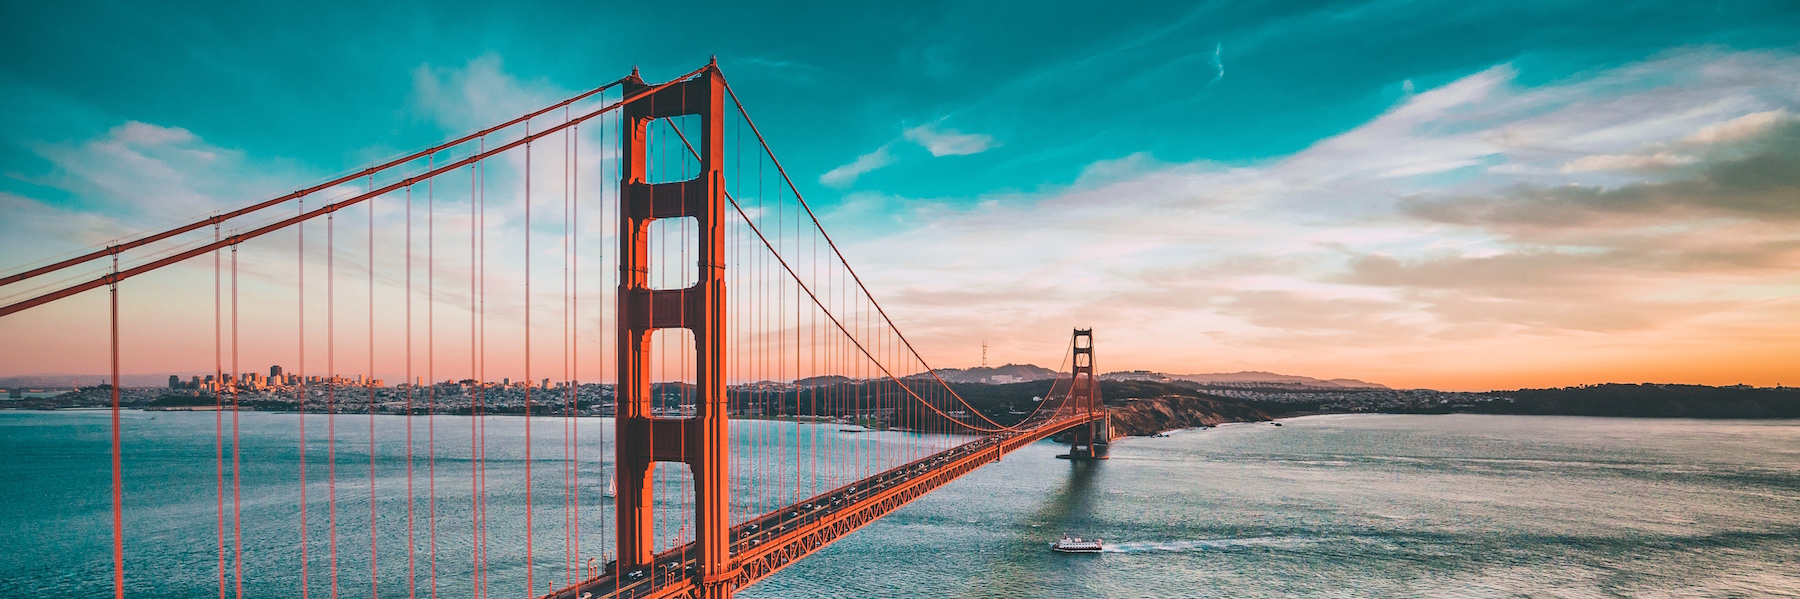
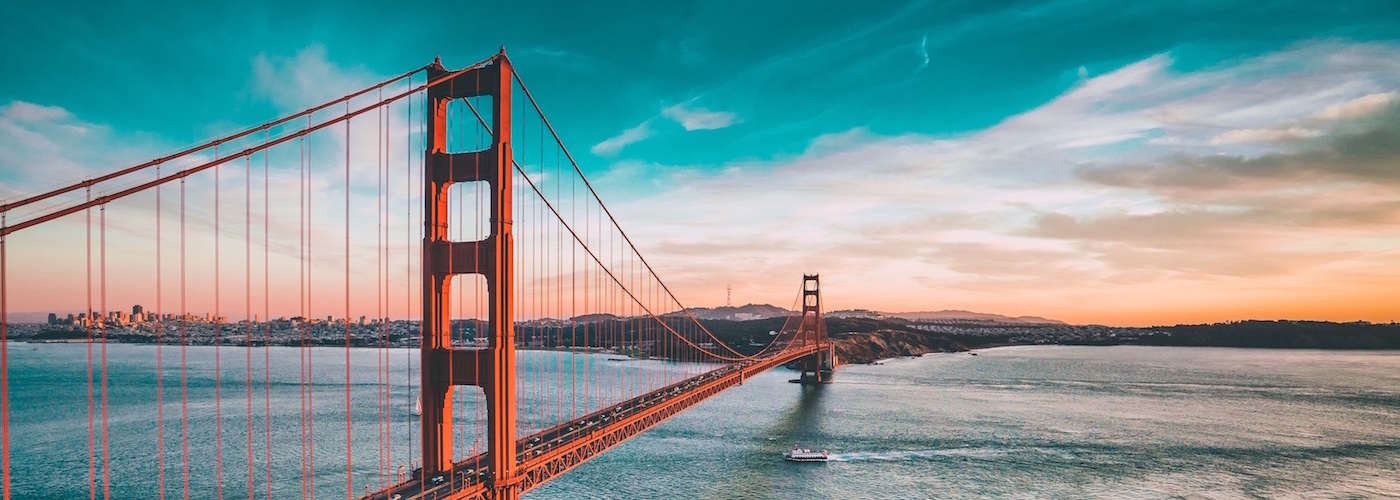
Feature/photo carousel (#5)
* Paragraph and image styling to about page

* Namespace video JS file WIP

* Update config

* Add rough copy to index

* Changes index hero image to carousel of profile pictures

* Resize images

* Flips image order

* Resizes bridge picture and adds it to index carousel

* Adds third dot to bottom of carousel

* Adjusts videoJS namespacing to get it working again

* Styles copy on index and about pages, rearranges about page to two static columns

diff --git a/index.html b/index.html
@@ -5,14 +5,30 @@ title: Homepage
 <section id="home">
 
   <div id="mycarousel" class="carousel slide" data-ride="carousel">
-    <div class="carousel-inner">
+    <ol class="carousel-indicators">
+      <li data-target="#mycarousel" data-slide-to="0" class="active"></li>
+      <li data-target="#mycarousel" data-slide-to="1"></li>
+      <li data-target="#mycarousel" data-slide-to="2"></li>
+    </ol>
+    <div class="carousel-inner" role="listbox">
       <div class="item active">
-        <img src="assets/images/gg-bridge.jpg" alt="Golden Gate Bridge" class="img-responsive">
-        <div class="carousel-caption">
-          <h3>Lorem ipsum dolor sit amet, consectetur adipiscing elit.</h3>
-        </div>
+        <img src="assets/images/Richard-1.jpg" alt="Richard leaning against a brick wall" class="img-responsive">
+      </div>
+      <div class="item">
+        <img src="assets/images/Richard-2.jpg" alt="Close up of Richard smiling" class="img-responsive">
+      </div>
+      <div class="item">
+        <img src="assets/images/gg-bridge.jpg" alt="Beautiful portrait of the Golden Gate Bridge" class="img-responsive">
       </div>
     </div>
+    <a class="left carousel-control" href="#mycarousel" role="button" data-slide="prev">
+      <span class="icon-prev" aria-hidden="true"></span>
+      <span class="sr-only">Previous</span>
+    </a>
+    <a class="right carousel-control" href="#mycarousel" role="button" data-slide="next">
+      <span class="icon-next" aria-hidden="true"></span>
+      <span class="sr-only">Next</span>
+    </a>
   </div>
 
 </section>
@@ -20,18 +36,23 @@ title: Homepage
 <section id="intro">
 
   <div class="section-header text-center">
-    <h2>Intro</h2>
+    <div class="container">
+      <div class="row text-center">
+        <div class="col-sm-8 col-sm-offset-2 text-center">
+          <h2>A partner you can trust on your journey towards financial stability.</h2>
+        </div>
+      </div>
+    </div>
   </div>
 
   <div class="section-body">
     <div class="container">
       <div class="row text-center">
-        <div class="center-block">
+        <div class="col-sm-8 col-sm-offset-2 text-center">
           <p>
-            Lorem ipsum dolor sit amet, consectetur adipiscing elit. 
-            Mauris euismod aliquet sapien, eu pulvinar nunc dignissim non. 
-            Nam eget pharetra orci. Aliquam urna enim, faucibus ac 
-            tempus et, elementum ac neque.
+            Money By Pounds is an independent registered financial advisor 
+            offering comprehensive financial life planning and management 
+            services to people around the country. 
           </p>
         </div>
       </div>
@@ -52,16 +73,14 @@ title: Homepage
         <img src="/assets/images/profile.png" alt="Profile picture" id="profile-pic" class="img-circle">
       </div>
       <div class="row text-center">
-        <p>
-          Aenean feugiat tellus a nibh laoreet, eget elementum ligula posuere. 
-          Class aptent taciti sociosqu ad litora torquent per conubia nostra, 
-          per inceptos himenaeos. Etiam gravida convallis mi, nec ultrices nibh 
-          tristique ut. Aliquam porta, arcu quis volutpat commodo, turpis dui 
-          dignissim massa, eget ullamcorper metus elit sed mi. Quisque dictum, 
-          nibh vel ultricies sodales, magna mauris scelerisque neque, nec 
-          gravida arcu eros vitae lacus.
-        </p>
-        <a href="/about"><button>Learn more</button></a>
+        <div class="col-sm-8 col-sm-offset-2 text-center">
+          <p>
+            <em>"When it comes to personal financial security, it’s important to know that you 
+            have a partner who values your life and goals, and is not afraid to showcase 
+            their loyalty to you."</em>
+          </p>
+          <a href="/about"><button>Learn more</button></a>
+        </div>
       </div>
     </div>
   </div>
@@ -76,34 +95,35 @@ title: Homepage
         <div class="container">
           <div class="col-sm-6 text-center">
             <i class="fa fa-volume-control-phone fa-3x" aria-hidden="true"></i>
-            <h3>Imperdiet Convallis</h3>
+            <h3>Accessibility</h3>
             <p>
-              Morbi nec sem sit amet ligula malesuada lobortis. Nulla 
-              vestibulum tortor nibh, ac vulputate arcu egestas vitae.
+              Regardless of your geographic location, my financial services are available
+              to you.
             </p>
           </div>
           <div class="col-sm-6 text-center">
             <i class="fa fa-university fa-3x" aria-hidden="true"></i>
-            <h3>Sit Amet Ligula</h3>
+            <h3>Confidence</h3>
             <p>
-              Curabitur luctus non nibh vitae interdum. Vivamus eu magna 
-              posuere, tincidunt dolor eget, ullamcorper ex.
+              As a Certified Financial Planner, you can rest assured that your financial security 
+              is in good hands.
             </p>
           </div>
         </div>
         <div class="container">
           <div class="col-sm-6 text-center">
             <i class="fa fa-cogs fa-3x" aria-hidden="true"></i>
-            <h3>Vivamus eu Magna</h3>
+            <h3>Cooperation</h3>
             <p>
-              Nunc urna orci, semper sit amet mauris quis, imperdiet convallis leo.
+              I'm going to work with you, not just for you, to attain your personal goals.
             </p>
           </div>
           <div class="col-sm-6 text-center">
             <i class="fa fa-line-chart fa-3x" aria-hidden="true"></i>
-            <h3>Torquent per Conubia</h3>
+            <h3>Growth</h3>
             <p>
-              Sed tincidunt maximus lacus, quis euismod purus maximus vel. Suspendisse potenti.
+              Whether a one-time planning session or continued financial advising, 
+              you're going to see results.
             </p>
           </div>
         </div>
@@ -148,11 +168,12 @@ title: Homepage
   <div class="section-body text-center">
     <div class="container">
       <div class="row">
-        <p>
-          Sed facilisis elit lacus, eu fermentum turpis finibus quis. Interdum et malesuada fames 
-          ac ante ipsum primis in faucibus. Proin massa odio, dictum sed erat vel, pretium gravida risus. 
-          Donec vel tempor nulla.
-        </p>
+        <div class="col-sm-8 col-sm-offset-2 text-center">
+          <p>
+            Money By Pounds offers a selection of services to fit your needs, 
+            no matter where you are at or headed in your personal financial journey.
+          </p>
+        </div>
       </div>
     </div>
   </div>

diff --git a/about.html b/about.html
@@ -21,57 +21,52 @@ title: About
 
   <div class="section-body">
     <div class="container">
-      <div class="row text-center">
-        <div class="col-sm-offset-2 col-sm-8">
+      <div class="row">
+        <div class="col-sm-offset-1 col-sm-6">
           <p>
             I grew up in a small farming community which provided me with a unique 
             set of life lessons and character traits that I have always tried to 
             carry with me. The two most important qualities- the pillars I have allowed 
             to guide and drive my own life- are loyalty and striving to improve the 
             lives of others. 
-          </p><br/>  
+          </p>  
           <p>
             When I left home and joined the military I saw these familiar qualities 
             in the people around me. In my comrades, these traits were even stronger 
             than I’d seen back home. Seeing such loyalty and concern for others all 
             around me was a real turning point, and I knew that when I returned home 
-            it was going to be important to keep these pillars central to my life.
-          </p><br/>
-        </div>
-        <div class="col-sm-offset-2 col-sm-4">
-          <img src="/assets/images/profile.png" alt="Profile picture" id="profile-pic" class="img-circle">
-        </div>
-        <div class="col-sm-4">
-          <p>
+            it was going to be important to keep these pillars central to my life. 
             When the time came for me to decide how I was going to do this, helpful 
-            financial advice was an obvious choice. I didn’t have a lot of financial 
-            guidance growing up so I had to teach myself about financial responsibility.
-          </p><br/>  
+            financial advice was an obvious choice. 
+          </p>  
           <p>
+            I didn’t have a lot of financial 
+            guidance growing up so I had to teach myself about financial responsibility.
             Picking up these skills had a dramatic effect on my personal life. I knew 
             that sharing this knowledge and skill set was just the way to improve the 
             lives of others that I was looking for.
-          </p><br/>  
-        </div>
-        <div class="col-sm-offset-2 col-sm-8">
+          </p>
           <p>
             When I started working in the financial industry- gaining more expertise in 
             financial planning and retirement savings- I realized that loyalty and a 
             commitment to others wasn’t a core value of many larger firms. I knew that 
             if I wanted those qualities to be at the forefront of the financial advice 
             that I was giving, I would have to set out on my own.
-          </p><br/>
+          </p>
           <p>
             That’s why I founded Money By Pounds- to give people, especially those who 
             are just starting out on their savings endeavor- a partner they could trust 
             on their journey towards financial stability.  
-          </p><br/>  
+          </p>  
           <p>
             When it comes to personal financial security, it’s important to know that you 
             have a partner who values your life and goals, and is not afraid to showcase 
             their loyalty to you. That’s just what you’ll have with Money By Pounds- a 
             loyal partner working to improve your life and the lives of others. 
-          </p><br/>
+          </p>
+        </div>
+        <div class="col-sm-4">
+          <img src="/assets/images/profile.png" alt="Profile picture" class="img-responsive">
         </div>
       </div>
     </div>

diff --git a/videos.html b/videos.html
@@ -12,12 +12,14 @@ title: Videos
     <div class="container">
       <div class="row">
         <div class="col-sm-12 text-center">
-          <p>
-            Lorem ipsum dolor sit amet, consectetur adipiscing elit. 
-            Mauris euismod aliquet sapien, eu pulvinar nunc dignissim non. 
-            Nam eget pharetra orci. Aliquam urna enim, faucibus ac 
-            tempus et, elementum ac neque.
-          </p>
+          <div class="col-sm-8 col-sm-offset-2 text-center">
+            <p>
+                Lorem ipsum dolor sit amet, consectetur adipiscing elit. 
+                Mauris euismod aliquet sapien, eu pulvinar nunc dignissim non. 
+                Nam eget pharetra orci. Aliquam urna enim, faucibus ac 
+                tempus et, elementum ac neque.
+            </p>
+          </div>
         </div>
       </div>
       <div class="row">
@@ -84,3 +86,5 @@ title: Videos
   </div>
 
 </section>
+
+<hr/>

diff --git a/assets/js/video_embed.js b/assets/js/video_embed.js
@@ -1,12 +1,14 @@
+if (typeof MoneyByPounds === "undefined") {
+  MoneyByPounds = {};
+}
+
 document.addEventListener("DOMContentLoaded",
   function() {
     MoneyByPounds.grabDivs();
   }
 );
 
-
 var MoneyByPounds = {
-
   grabDivs: function() {
     var div, n,
       youtubeDivs = document.getElementsByClassName("youtube-player");
@@ -33,5 +35,4 @@ var MoneyByPounds = {
     iframe.setAttribute("allowfullscreen", "1");
     this.parentNode.replaceChild(iframe, this);
   }
-
 }

diff --git a/assets/css/style.scss b/assets/css/style.scss
@@ -5,6 +5,7 @@
 @import "header";
 @import "footer";
 @import "body";
+@import "about";
 @import "button";
 @import "form";
 @import "videos";

diff --git a/assets/css/_about.scss b/assets/css/_about.scss
@@ -1,0 +1,5 @@
+#about-content {
+  p {
+    margin: 1em 0;
+  }
+}
